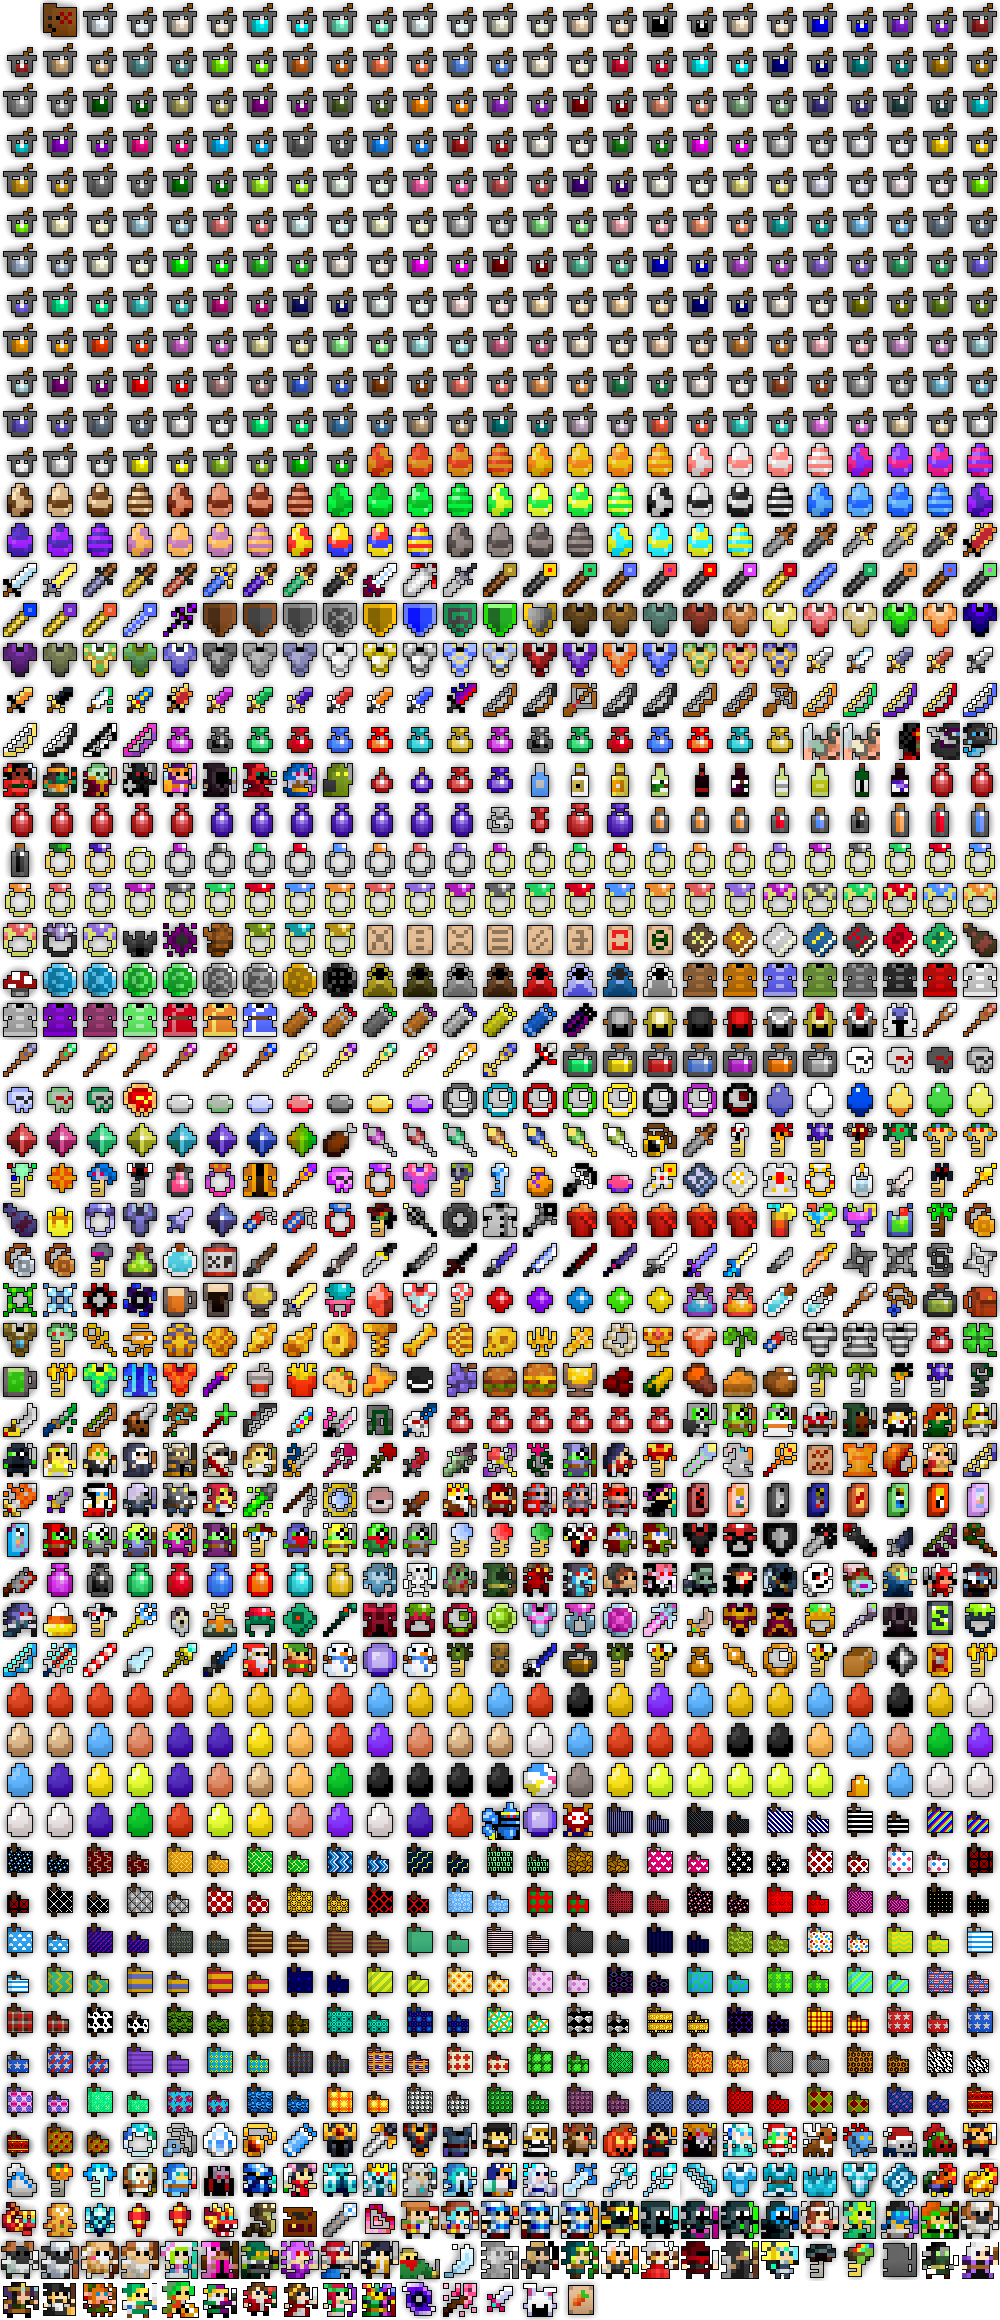
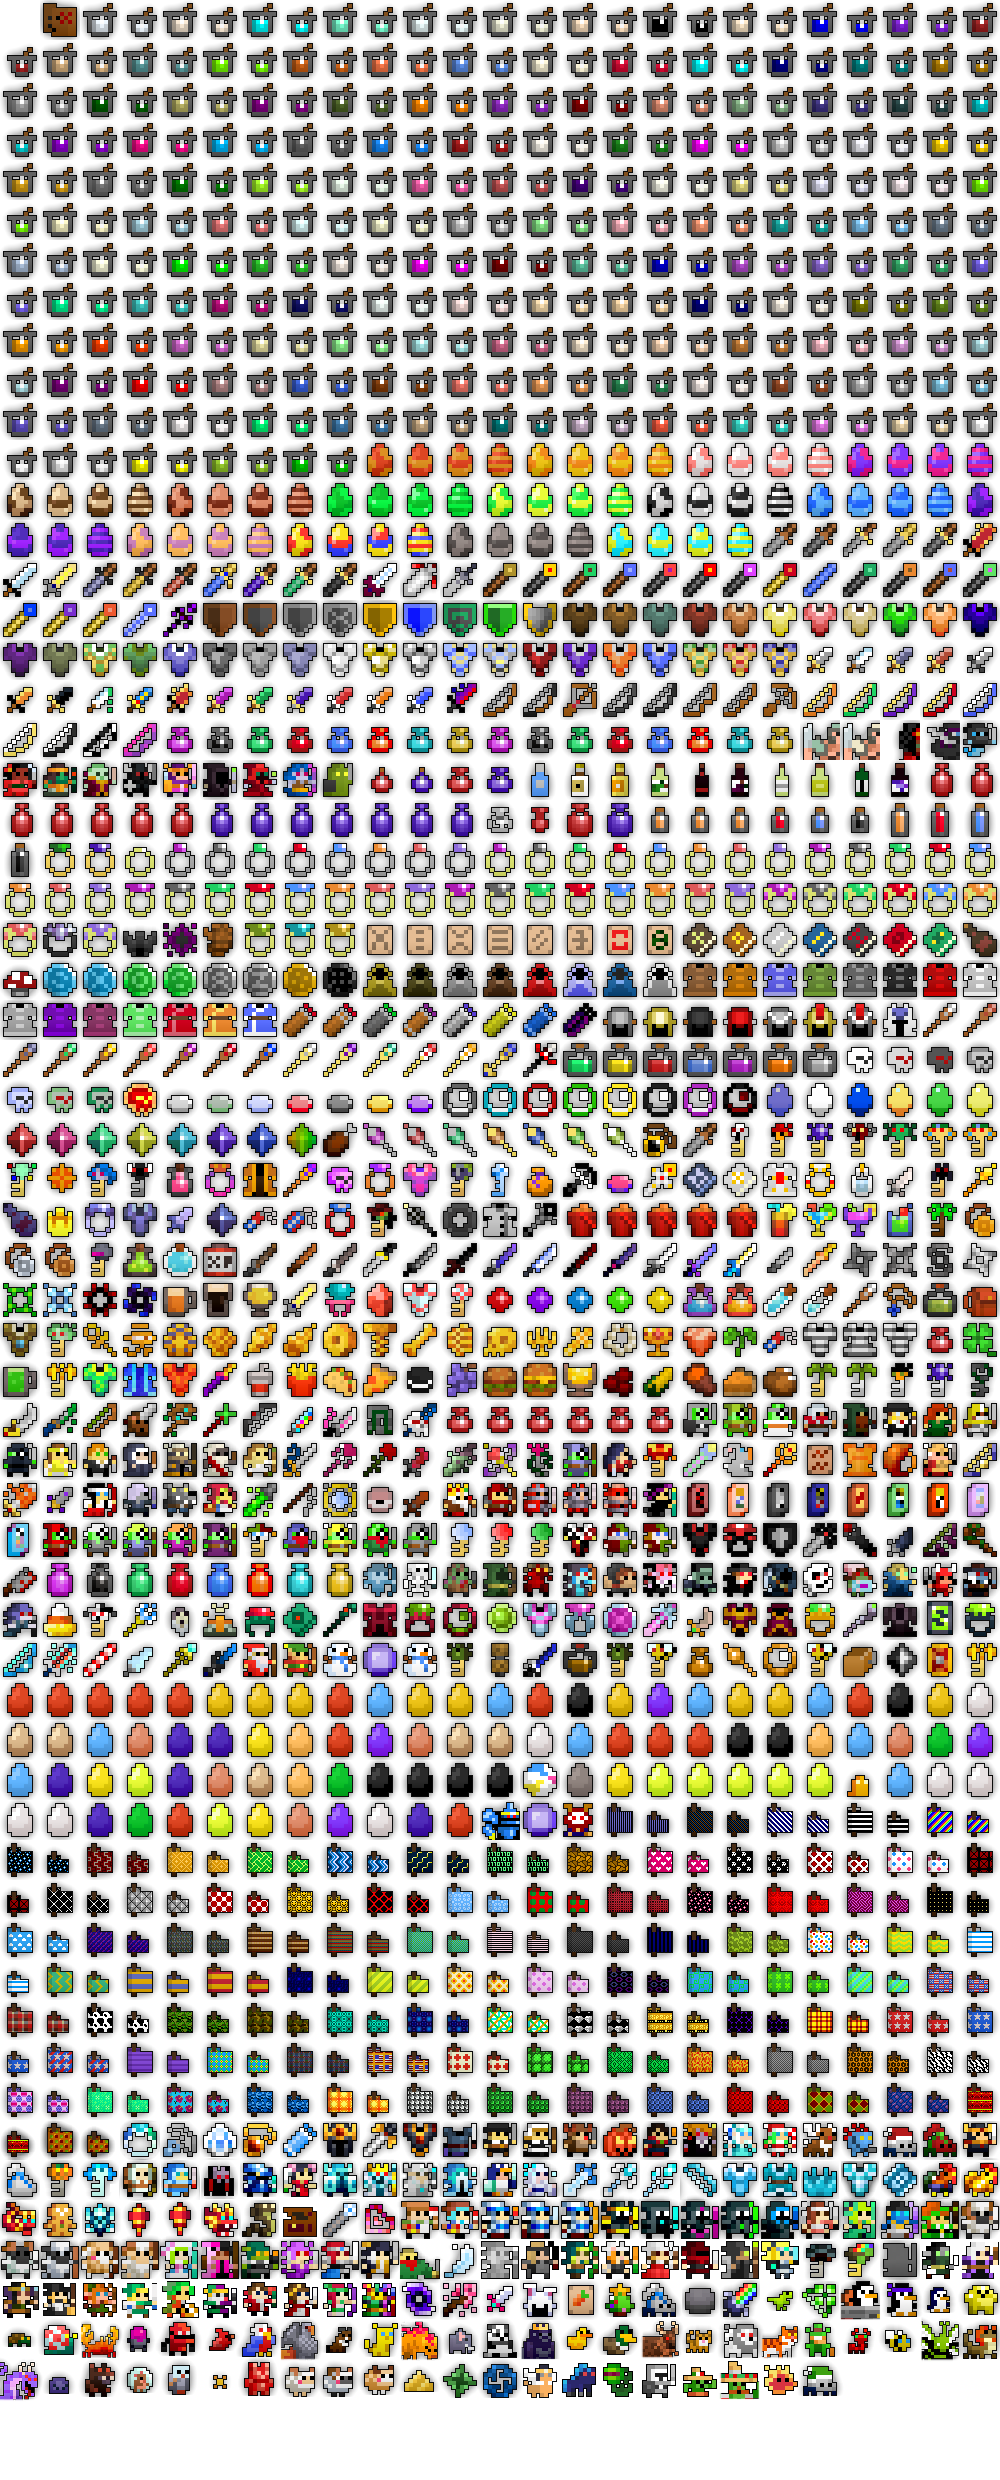
Updated with all new pet stones

diff --git a/lib/constants.js b/lib/constants.js
@@ -1,4 +1,4 @@
-// type: ["Name of item", slot, tier, x, y, famebonus, feedpower
+// type: ["Name of item", slot, tier, x, y, famebonus, feedpower],
 items = {
 '-1': ["empty slot", 0, -1, 0, 0, 0, 0],
 0x5e2d: ["Treasure Map", 10, -1, 40, 0, 0, 250],
@@ -1346,6 +1346,12 @@ items = {
 0x7fa2: ["Snow Queen Skin", 10, -1, 720, 2120, 0, 5000],
 0x7fa4: ["Miss Santa Skin", 10, -1, 760, 2120, 0, 5000],
 0x7f9b: ["Red Nose Pet Stone", 10, -1, 800, 2120, 0, 5000],
+0x7fcf: ["Muddy Tidechaser Pet Stone", 10, -1, 840, 2120, 0, 5000],
+0x7fcd: ["Muddy Tidechaser Skin", 10, -1, 840, 2120, 0, 5000],
+0x7fc6: ["Red Helper Bagston Skin", 10, -1, 880, 2120, 0, 5000],
+0x7fc7: ["Red Helper Bagston Pet Stone", 10, -1, 880, 2120, 0, 5000],
+0x7fc0: ["Red Bagston Skin",10, -1, 920, 2120, 0, 5000],
+0x7fc1: ["Red Bagston Pet Stone",10, -1, 920, 2120, 0, 5000],
 0x7fbe: ["Dragon Tamer Skin", 10, -1, 960, 2120, 0, 5000],
 0x1411: ["Trick White Bag", 10, -1, 0, 2160, 0, 100],
 0x134:  ["Halloween Cemetery Key", 10, -1, 40, 2160, 0, 230],
@@ -1471,9 +1477,84 @@ items = {
 0x899:  ["Dagger of the Hasteful Rabbit", 2, 0, 480, 2280, 3, 310],
 0x8a8:  ["Helm of the Swift Bunny", 16, 0, 520, 2280, 5, 700],
 0x8a9:  ["Vitamine Buster", 11, 0, 560, 2280, 4, 700], 
+0x7f9a: ["Christmas Tree Pet Stone", 10, -1, 600, 2280, 0, 5000],
+0x7f9d: ["Christmas Tree Skin", 10, -1, 600, 2280, 0, 5000],
+0x6104: ["Bagston Skin", 10, -1, 640, 2280, 0, 5000],
+0x6105: ["Bagston Pet Stone", 10, -1, 640, 2280, 0, 5000],
+0x6a8:  ["Pet rock", 10, -1, 680, 2280, 0, 100], 
+0x164b: ["Sword of the Rainbow’s End", 1, 0, 720, 2280, 0, 0],
+0x6cca: ["Stanley Spring Bunny Skin.(SB)", 10, -1, 720, 1440, 0, 0], 
+0x19b3: ["Dino pet stone", 10, -1, 760, 2280, 0, 5000],
+0x164a: ["Clover Bow", 3, -1, 800, 2280, 0, 0],
+0x19b2: ["Tank Penguin Pet Stone", 10, -1, 840, 2280, 0, 5000],
+0x19b1: ["Karate Purple Pet Stone", 10, -1, 880, 2280, 0, 5000],
+0x19b0: ["Penguin Pet Stone", 10, -1, 920, 2280, 0, 5000],
+0x6108: ["Goldy Pet Stone", 10, -1, 960, 2280, 0, 5000],
+0x1997: ["Turtle Pet Stone", 10, -1, 0, 2320, 0, 5000],
+0x1998: ["Peppermint Snail Pet Stone", 10, -1, 40, 2320, 0, 5000],
+0x1999: ["Golden Crab Pet Stone", 10, -1, 80, 2320, 0, 5000],
+0x199a: ["Robobuddy Pet Stone", 10, -1, 120, 2320, 0, 5000],
+0x199b: ["Redbot Pet Stone", 10, -1, 160, 2320, 0, 5000],
+0x199c: ["Gutsbot Pet Stone", 10, -1, 480, 1800, 0, 0],
+0x199d: ["Cardinal Pet Stone", 10, -1, 200, 2320, 0, 5000],
+0x199e: ["USA Eagle Pet Stone", 10, -1, 240, 2320, 0, 5000],
+0x199f: ["Griffin Pet Stone", 10, -1, 280, 2320, 0, 5000],
+0x19a0: ["Sheepdog Pet Stone", 10, -1, 320, 2320, 0, 5000],
+0x19a1: ["Gold Bulldog Pet Stone", 10, -1, 360, 2320, 0, 5000],
+0x19a2: ["Golden Hyena Pet Stone", 10, -1, 400, 2320, 0, 5000],
+0x19a3: ["Elephant Pet Stone", 10, -1, 440, 2320, 0, 5000],
+0x19a4: ["Panda Pet Stone", 10, -1, 480, 2320, 0, 5000],
+0x19a5: ["King Gorilla Pet Stone", 10, -1, 520, 2320, 0, 5000],
+0x19a6: ["Duck Pet Stone", 10, -1, 560, 2320, 0, 5000],
+0x19a7: ["Mallard Pet Stone", 10, -1, 600, 2320, 0, 5000],
+0x19a8: ["Enraged Yack Pet Stone", 10, -1, 640, 2320, 0, 5000],
+0x19a9: ["Tan Cat Pet Stone", 10, -1, 680, 2320, 0, 5000],
+0x19aa: ["White Lion Pet Stone", 10, -1, 720, 2320, 0, 5000],
+0x19ab: ["Tiger Pet Stone", 10, -1, 760, 2320, 0, 5000],
+0x19ac: ["Leprechaun Pet Stone", 10, -1, 800, 2320, 0, 5000],
+0x19ad: ["Red Ant Pet Stone", 10, -1, 840, 2320, 0, 5000],
+0x19ae: ["Bee Pet Stone", 10, -1, 880, 2320, 0, 5000],
+0x19af: ["Beetleman Pet Stone", 10, -1, 920, 2320, 0, 5000],
+0x19b6: ["Frilled Lizard Pet Stone", 10, -1, 960, 2320, 0, 5000],
+0x19b7: ["Poison Drake Pet Stone", 10, -1, 0, 2360, 0, 5000],
+0x19b8: ["Spirit Pet Stone", 10, -1, 40, 2360, 0, 5000],
+0x19b9: ["Werewolf Cub Pet Stone", 10, -1, 80, 2360, 0, 5000],
+0x19ba: ["Hamster Pet Stone", 10, -1, 120, 2360, 0, 5000],
+0x19bb: ["Snowy Owl Pet Stone", 10, -1, 160, 2360, 0, 5000],
+0x19bc: ["Sprite Star Pet Stone", 10, -1, 200, 2360, 0, 5000],
+0x19bd: ["Gummy Bear Pet Stone", 10, -1, 240, 2360, 0, 5000],
+0x2aa2: ["White Bounsheep Pet Stone", 10, -1, 280, 2360, 0, 5000],
+0x2aa1: ["White Bounsheep Skin", 10, -1, 280, 2360, 0, 5000],
+0x2aa5: ["Grey Bounsheep Pet Stone", 10, -1, 320, 2360, 0, 5000],
+0x2aa4: ["Grey Bounsheep Skin", 10, -1, 320, 2360, 0, 5000],
+0x2aa8: ["Brown Bounsheep Pet Stone", 10, -1, 360, 2360, 0, 5000],
+0x2aa7: ["Brown Bounsheep Skin", 10, -1, 360, 2360, 0, 5000],
+0x2aab: ["Bes' Artifact Pet Stone", 10, -1, 400, 2360, 0, 5000],
+0x2aaa: ["Bes' Artifact Skin", 10, -1, 400, 2360, 0, 5000],
+0x2aae: ["Geb's Artifact Pet Stone", 10, -1, 440, 2360, 0, 5000],
+0x2aad: ["Geb's Artifact Skin", 10, -1, 440, 2360, 0, 5000],
+0x2ab1: ["Nut's Artifact Pet Stone", 10, -1, 480, 2360, 0, 5000],
+0x2ab0: ["Nut's Artifact Skin", 10, -1, 480, 2360, 0, 5000],
+0x4ac5: ["Mini Sphinx Pet Stone", 10, -1, 520, 2360, 0, 5000],
+0x4ac4: ["Mini Sphinx Skin", 10, -1, 520, 2360, 0, 5000],
+0x4ac7: ["Mini Crystal Steed Pet Stone", 10, -1, 560, 2360, 0, 5000],
+0x4ac6: ["Mini Crystal Steed Skin", 10, -1, 560, 2360, 0, 5000],
+0x4ac9: ["Carnivorous Plant Pet Stone", 10, -1, 600, 2360, 0, 5000],
+0x4ac8: ["Carnivorous Plant Skin", 10, -1, 600, 2360, 0, 5000],
+0x4acb: ["Knight Companion Pet Stone", 10, -1, 640, 2360, 0, 5000],
+0x4aca: ["Knight Companion Skin", 10, -1, 640, 2360, 0, 5000],
+0x4acd: ["Mr Cactus Jr. Pet Stone", 10, -1, 680, 2360, 0, 5000],
+0x4acc: ["Mr Cactus Jr. Skin", 10, -1, 680, 2360, 0, 5000],
+0x4acf: ["Mr Cactus Pet Stone", 10, -1, 720, 2360, 0, 5000],
+0x4ace: ["Mr Cactus Skin", 10, -1, 720, 2360, 0, 5000],
+0x4bb8: ["Mini Limon Pet Stone", 10, -1, 760, 2360, 0, 5000],
+0x4bb7: ["Mini Limon Skin", 10, -1, 760, 2360, 0, 5000],
+0x7fc4: ["Helper Bagston Pet Ston", 10, -1, 800, 2360, 0, 5000],
+0x7fc3: ["Helper Bagston Skin", 10, -1, 800, 2360, 0, 5000],
+//0x0: "(art sprite)"(unknown)
 //0x13c:  ["Testing Mystery Dye", 10, -1, 760, 2120, 0, 5000], (Unknown)
 }
-// type: ["Name of item", slot, tier, x, y, famebonus, feedpower
+// type: ["Name of item", slot, tier, x, y, famebonus, feedpower],
 
 // type: [id, starts, averages, maxes, slots]
 classes = {
